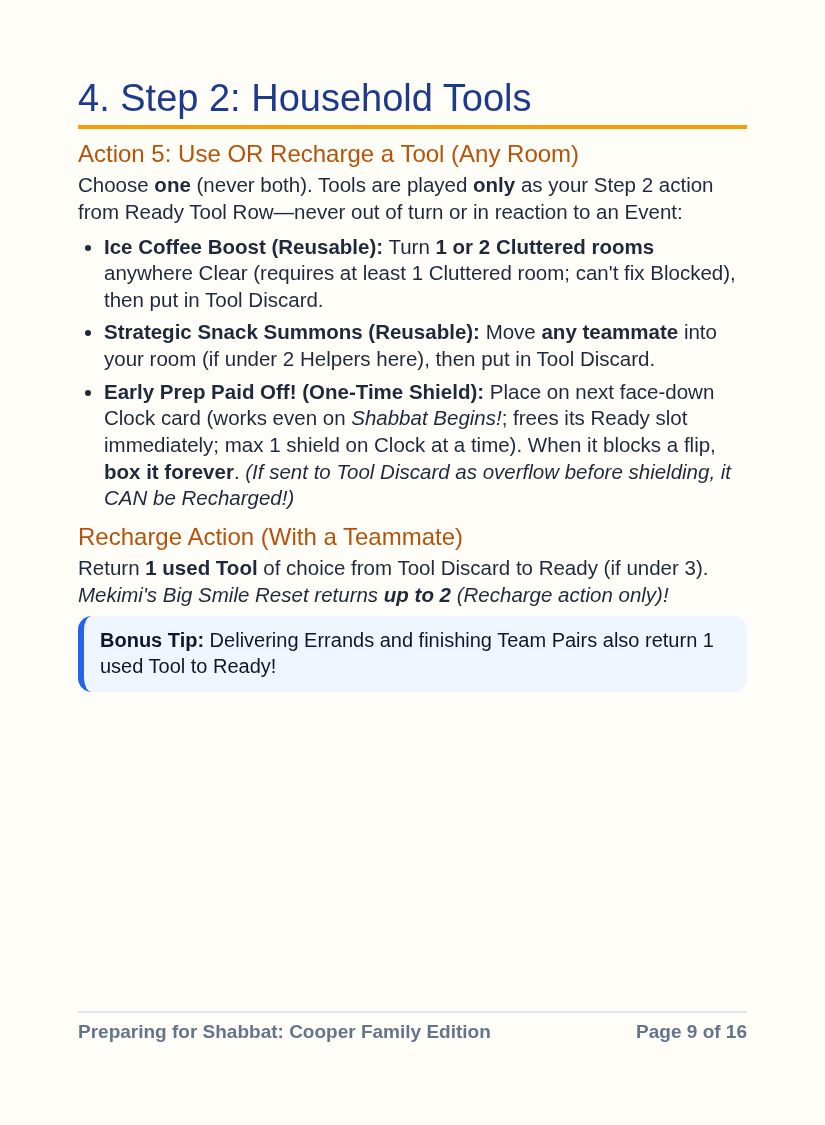
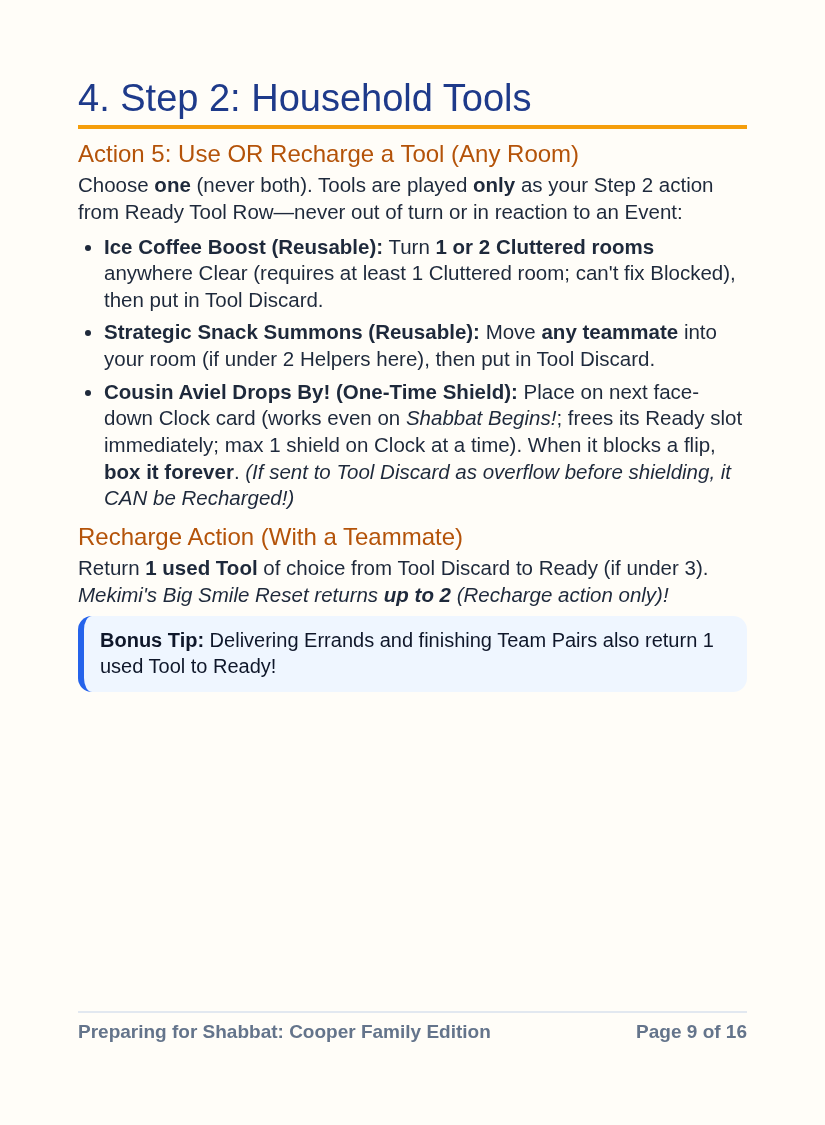
Sync updated Drive assets (Cousin Aviel Drops By!, updated cards, tuck box & booklet)

Changed region(s): [[0.1212, 0.3422, 0.8788, 0.4044]]

diff --git a/src/data/cards.ts b/src/data/cards.ts
@@ -575,17 +575,17 @@ export const TOOL_DECK: readonly ToolCardDef[] = [
       frontImage: 'assets/cards/tool_39_41_strategic_snack_summons_QTY3.webp',
     }),
   ),
-  // 3 Early Prep Paid Off!
+  // 3 Cousin Aviel Drops By!
   ...([42, 43, 44] as const).map(
     (n): ToolCardDef => ({
       id: `TOOL_${n}`,
       kind: 'EARLY_PREP',
-      title: 'Early Prep Paid Off!',
+      title: 'Cousin Aviel Drops By!',
       badge: 'One-Time Shield',
       rulesText:
         'Step 2 Action: Place on the next face-down Clock card (only 1 shield on the Clock at a time). When it blocks a Clock flip, return this card to the box.',
-      flavor: '“Thank you, Thursday-night us—ahead of schedule!”',
-      frontImage: 'assets/cards/tool_42_44_early_prep_paid_off_QTY3.webp',
+      flavor: '“Extra pair of hands right when we needed it!”',
+      frontImage: 'assets/cards/tool_42_44_cousin_aviel_drops_by_QTY3.webp',
     }),
   ),
 ];
@@ -810,7 +810,7 @@ export const SLOW_DOWN_DECK: readonly SlowDownCardDef[] = [
     kind: 'TIME_FLIES',
     title: '“Wait—Shabbat Is at WHAT Time?!”',
     rulesText:
-      '1. Flip the next Clock card (unless Early Prep blocks it). 2. Pick the 1st Clear Kitchen (or 1st Cluttered if none are Clear): turn Clear sideways, or flip Cluttered to Blocked. 3. Return this card to the box.',
+      '1. Flip the next Clock card (unless Cousin Aviel blocks it). 2. Pick the 1st Clear Kitchen (or 1st Cluttered if none are Clear): turn Clear sideways, or flip Cluttered to Blocked. 3. Return this card to the box.',
     flavor: '“Winter Friday strikes again!”',
     frontImage: 'assets/cards/slowdown_62_what_time.webp',
   },
@@ -896,10 +896,10 @@ export const GALLERY_ITEMS: readonly GalleryItem[] = [
   {
     id: 'GAL_TOOL_EARLY_PREP',
     category: 'Tools',
-    title: 'Early Prep Paid Off!',
+    title: 'Cousin Aviel Drops By!',
     subtitle: 'One-Time Shield · Block next Clock flip',
     qty: 3,
-    frontImage: 'assets/cards/tool_42_44_early_prep_paid_off_QTY3.webp',
+    frontImage: 'assets/cards/tool_42_44_cousin_aviel_drops_by_QTY3.webp',
     backImage: SHARED_BACKS.eventsAndTools,
   },
   ...SLOW_DOWN_DECK.map((s) => ({

diff --git a/src/engine/events.ts b/src/engine/events.ts
@@ -277,7 +277,7 @@ export function resolveEventFlip(state: GameState): GameState {
       };
       notes.push({
         kind: 'CLOCK_SHIELDED',
-        text: 'Early Prep Paid Off! blocked the Time Flies Clock flip and returned to the box!',
+        text: 'Cousin Aviel Drops By! blocked the Time Flies Clock flip and returned to the box!',
       });
     } else {
       const nextClockIdx = next.clockRow.findIndex((c) => !c.flipped);
@@ -442,11 +442,11 @@ export function advanceAfterEvent(state: GameState): GameState {
       clockShield: null,
       boxedTools: [...next.boxedTools, shield],
     };
-    clockNote = 'Early Prep blocked the Clock flip';
+    clockNote = 'Cousin Aviel blocked the Clock flip';
     next = appendLog(
       next,
       'ROUND',
-      `End of Round ${next.round}: Early Prep Paid Off! blocked the Clock flip and returned to the box!`,
+      `End of Round ${next.round}: Cousin Aviel Drops By! blocked the Clock flip and returned to the box!`,
     );
   } else {
     const nextClockIdx = next.clockRow.findIndex((c) => !c.flipped);

diff --git a/src/components/CoachBanner.tsx b/src/components/CoachBanner.tsx
@@ -87,7 +87,7 @@ export function CoachBanner({ state, legalMoves }: CoachBannerProps) {
       const hasEarlyPrep = state.readyTools.some((t) => t.kind === 'EARLY_PREP');
       if (hasEarlyPrep) {
         tips.push(
-          'Turn 4 of 4! Playing Early Prep Paid Off! right now will block tonight’s Clock flip!',
+          'Turn 4 of 4! Playing Cousin Aviel Drops By! right now will block tonight’s Clock flip!',
         );
       } else {
         tips.push('Turn 4 of 4: After this turn’s Event flip, the Shabbat Clock will flip 1 card.');
@@ -130,7 +130,7 @@ export function CoachBanner({ state, legalMoves }: CoachBannerProps) {
     if (isFinalTurnOfRound) {
       tips.push(
         state.clockShield
-          ? 'End of Round next — Early Prep Paid Off! is ready to block the Clock flip!'
+          ? 'End of Round next — Cousin Aviel Drops By! is ready to block the Clock flip!'
           : 'End of Round next: after this Event, all 4 Helpers will refresh and 1 Clock card will flip.',
       );
     }

diff --git a/src/components/ClockStrip.tsx b/src/components/ClockStrip.tsx
@@ -44,7 +44,7 @@ export function ClockStrip({ state, onInspectCard }: ClockStripProps) {
                 card.flipped
                   ? `${card.title} (Flipped)`
                   : isShielded
-                    ? 'Next Clock card — shielded by Early Prep Paid Off!'
+                    ? 'Next Clock card — shielded by Cousin Aviel Drops By!'
                     : idx === state.clockRow.length - 1
                       ? 'Rightmost Clock card: Shabbat Begins! (face-down)'
                       : `Clock card #${idx + 1} (face-down)`
@@ -82,10 +82,10 @@ export function ClockStrip({ state, onInspectCard }: ClockStripProps) {
         >
           <img
             src={assetUrl(state.clockShield.frontImage)}
-            alt="Early Prep Paid Off! shield"
+            alt="Cousin Aviel Drops By! shield"
             className="clock-shield-thumb"
           />
-          Shield Active: Early Prep Paid Off!
+          Shield Active: Cousin Aviel Drops By!
         </button>
       )}
     </section>

diff --git a/src/engine/actions.ts b/src/engine/actions.ts
@@ -372,13 +372,13 @@ export function getActionEvaluation(state: GameState): ActionEvaluation {
           category: 'TOOL',
           toolId: tool.id,
           cardImage: tool.frontImage,
-          label: 'Use: Early Prep Paid Off!',
+          label: 'Use: Cousin Aviel Drops By!',
           detail: 'Place shield on the next face-down Clock card (blocks 1 Clock flip, then boxed).',
           bonusTag: '+1 Round Shield',
         });
       } else {
         disabledHints.push({
-          label: 'Use: Early Prep Paid Off!',
+          label: 'Use: Cousin Aviel Drops By!',
           reason: 'The Shabbat Clock already has a shield on it (max 1 shield at a time).',
         });
       }

diff --git a/src/engine/reducer.ts b/src/engine/reducer.ts
@@ -398,7 +398,7 @@ export function applyAction(state: GameState, actionId: string): GameState {
       const tool = state.readyTools.find((t) => t.id === candidate.toolId);
       if (!tool || state.clockShield !== null) return state;
       const nextReady = state.readyTools.filter((t) => t.id !== tool.id);
-      const note = `${getHelperName(activeId)} played Early Prep Paid Off! — next Clock flip is shielded!`;
+      const note = `${getHelperName(activeId)} played Cousin Aviel Drops By! — next Clock flip is shielded!`;
       const next = appendLog(
         { ...state, readyTools: nextReady, clockShield: tool },
         'ACTION',

diff --git a/src/components/ActionPanel.tsx b/src/components/ActionPanel.tsx
@@ -529,7 +529,7 @@ export function ActionPanel({
           <button type="button" className="btn btn-primary" onClick={onAdvanceTurn}>
             {isFinalTurn
               ? state.clockShield
-                ? `Rest ${activeDef.name} & End Round (Early Prep Shields Clock!)`
+                ? `Rest ${activeDef.name} & End Round (Cousin Aviel Shields Clock!)`
                 : `Rest ${activeDef.name} & End Round (Flip Shabbat Clock)`
               : `Rest ${activeDef.name} & Next Helper`}
           </button>

diff --git a/RULES.md b/RULES.md
@@ -37,7 +37,7 @@ Work together to finish all **Game Chores** (**9** Standard; **7** Beginner; **1
 - **10 Shabbat Clock Cards:** 9 *Friday Afternoon* + 1 *Shabbat Begins!*
 - **28 Friday Events & Tools (same card back!):**
   - **18 Slow-Downs:** 15 Single-Zone (`1st` / `2nd` / `3rd`), 2 Double Trouble, 1 Time Flies.
-  - **10 Household Tools:** 4 *Ice Coffee Boost*, 3 *Strategic Snack Summons*, 3 *Early Prep Paid Off!*
+  - **10 Household Tools:** 4 *Ice Coffee Boost*, 3 *Strategic Snack Summons*, 3 *Cousin Aviel Drops By!*
 
 ---
 
@@ -58,7 +58,7 @@ Work together to finish all **Game Chores** (**9** Standard; **7** Beginner; **1
 - **G. Tools & Event Deck:** Shuffle all 10 Tools:
   - **2 face-up** in the **Ready Tool Row** (max 3).
   - **2 face-up** in **Backup Tools** (doesn't count toward the 3-card Ready limit).
-  - Shuffle **2 Tools + 15 Slow-Downs** (*Beginner: 14; Hard: 16*) to make the **Event Deck**. Box the other 4 Tools & unused Slow-Downs unseen *(some games have fewer or no Early Prep cards)*.
+  - Shuffle **2 Tools + 15 Slow-Downs** (*Beginner: 14; Hard: 16*) to make the **Event Deck**. Box the other 4 Tools & unused Slow-Downs unseen *(some games have fewer or no Cousin Aviel cards)*.
 
 > **Two Separate Discards:** Keep **Slow-Down Discard** (reshuffles when Event Deck empties) separate from **Tool Discard** (for Recharging only — never shuffled into Events).
 
@@ -114,7 +114,7 @@ With a teammate in **your room** (Clear, or Cluttered with **Nael + 1**), choose
 Choose **one** (never both). Tools are played **only** as your Step 2 action from the Ready Tool Row — never out of turn or in reaction to an Event:
 - **Ice Coffee Boost (Reusable):** Turn **1 or 2 Cluttered rooms** anywhere Clear (requires at least 1 Cluttered room; can't fix Blocked), then put in Tool Discard.
 - **Strategic Snack Summons (Reusable):** Move **any teammate** from anywhere into your room (if under 2 Helpers here), then put in Tool Discard.
-- **Early Prep Paid Off! (One-Time Shield):** Place on next face-down Clock card *(works even on Shabbat Begins!; frees its Ready slot immediately; max 1 shield on Clock at a time)*. When it blocks a flip, **box it forever**. *(If sent to Tool Discard as overflow before shielding, it CAN be Recharged!)*
+- **Cousin Aviel Drops By! (One-Time Shield):** Place on next face-down Clock card *(works even on Shabbat Begins!; frees its Ready slot immediately; max 1 shield on Clock at a time)*. When it blocks a flip, **box it forever**. *(If sent to Tool Discard as overflow before shielding, it CAN be Recharged!)*
 - **Recharge Action (With a Teammate):** Return **1 used Tool** of choice from Tool Discard to Ready (if under 3). **Mekimi's Big Smile Reset** returns **up to 2** *(Recharge action only!)*.
 
 ### Step 3: Events & Round End
@@ -126,7 +126,7 @@ Choose **one** (never both). Tools are played **only** as your Step 2 action fro
    - **Empty Event Deck?** Shuffle **only Slow-Down Discard** to form a new Event Deck. *(If both Event Deck and Slow-Down Discard are empty, skip the flip; still Rest.)*
 2. **Rest Your Helper:** Turn your Helper card sideways (**Resting**). Carried Errands stay underneath.
 3. **End of Round (All 4 Helpers Resting):**
-   - **Clock Flip:** If *Early Prep Paid Off!* is on the next Clock card, box Early Prep instead of flipping. Otherwise flip the leftmost Clock card (**Shabbat Begins!** = lose!).
+   - **Clock Flip:** If *Cousin Aviel Drops By!* is on the next Clock card, box Cousin Aviel instead of flipping. Otherwise flip the leftmost Clock card (**Shabbat Begins!** = lose!).
    - **Refresh:** Stand all 4 Helper cards upright (**Ready**).
    - **Arrival Chore:** Flip 1 Arrival Chore into the Chore Row (if any remain).
 
@@ -139,7 +139,7 @@ Choose **one** (never both). Tools are played **only** as your Step 2 action fro
 - **Exact Number First:** Always pick that numbered room — even if Cluttered! Only if fewer non-Blocked rooms of that zone exist, fall back to the **1st Clear** (else **1st Cluttered**).
 - **Double Trouble (2 icons):** Resolve left icon, then right icon. For each, pick the **1st Clear** room (else **1st Cluttered**).
 - **Time Flies (*"Wait—Shabbat Is at WHAT Time?!"*):**
-  1. Flip next Clock card **first** (skip round-end Refresh/Arrival!). If *Early Prep* absorbs it, box Early Prep now — End-of-Round flip later is **not** absorbed unless a new one is played. If *Shabbat Begins!* flips, lose right away (skip steps 2–3 & don't Rest).
+  1. Flip next Clock card **first** (skip round-end Refresh/Arrival!). If *Cousin Aviel* absorbs it, box Cousin Aviel now — End-of-Round flip later is **not** absorbed unless a new one is played. If *Shabbat Begins!* flips, lose right away (skip steps 2–3 & don't Rest).
   2. Hit **1st Clear Kitchen** (else **1st Cluttered**).
   3. **Always** box this card (even if all Kitchens are Blocked).
 - **All Blocked?** If every room of that zone is Blocked, that room effect is lost harmlessly.
@@ -182,7 +182,7 @@ Choose **one** (never both). Tools are played **only** as your Step 2 action fro
 
 ### Family Winning Tips
 - Empty the Chore Row early to reveal Arrival Chores right away!
-- Shield the Clock with *Early Prep Paid Off!* (+1 round each!).
+- Shield the Clock with *Cousin Aviel Drops By!* (+1 round each!).
 - Use Mommy for Cluttered Errands and Nael for Cluttered Chores!
 
 ---
@@ -227,7 +227,7 @@ Choose **one** (never both). Tools are played **only** as your Step 2 action fro
 | 34 | Restore Order | **Everyone in Shabbat Clothes!** | Upstairs (All Clear) |
 | 35–38 | Tool (×4) | **Ice Coffee Boost** | Clear 1–2 Cluttered rooms anywhere (Reusable) |
 | 39–41 | Tool (×3) | **Strategic Snack Summons** | Move any teammate into your room (Reusable) |
-| 42–44 | Tool (×3) | **Early Prep Paid Off!** | Shield next Clock card, box when used (One-Time Shield) |
+| 42–44 | Tool (×3) | **Cousin Aviel Drops By!** | Shield next Clock card, box when used (One-Time Shield) |
 | 45 | Slow-Down | **Wait—Where's That Ingredient?!** | Kitchen · 1st |
 | 46 | Slow-Down | **Sticky Counter Situation** | Kitchen · 2nd |
 | 47 | Slow-Down | **Fridge Tetris Crisis** | Kitchen · 3rd |

diff --git a/print-pack/TGC_Upload_Checklist.md b/print-pack/TGC_Upload_Checklist.md
@@ -14,7 +14,7 @@ GAME COMPONENTS TO ADD IN TGC GAME EDITOR (Build 1 Game, Set Cart Quantity \= 2)
      \* 18 Chores (chore\_17..34):  Qty \= 1 each \| Back From: Card \-\> 02\_Cards\_Backs/back\_SHARED\_chores.png  
      \* Tool \#35-38 Ice Coffee:    Qty \= 4      \| Back From: Deck (shared Event Deck back)  
      \* Tool \#39-41 Snack Summons: Qty \= 3      \| Back From: Deck (shared Event Deck back)  
-     \* Tool \#42-44 Early Prep:    Qty \= 3      \| Back From: Deck (shared Event Deck back)  
+     \* Tool \#42-44 Cousin Aviel:  Qty \= 3      \| Back From: Deck (shared Event Deck back)  
      \* 18 Slow-Downs (\#45..62):   Qty \= 1 each \| Back From: Deck (shared Event Deck back)  
      \* Clock \#63-71 Friday Aft:   Qty \= 9      \| Back From: Card \-\> 02\_Cards\_Backs/back\_SHARED\_shabbat\_clock.png  
      \* Clock \#72 Shabbat Begins:  Qty \= 1      \| Back From: Card \-\> 02\_Cards\_Backs/back\_SHARED\_shabbat\_clock.png  
